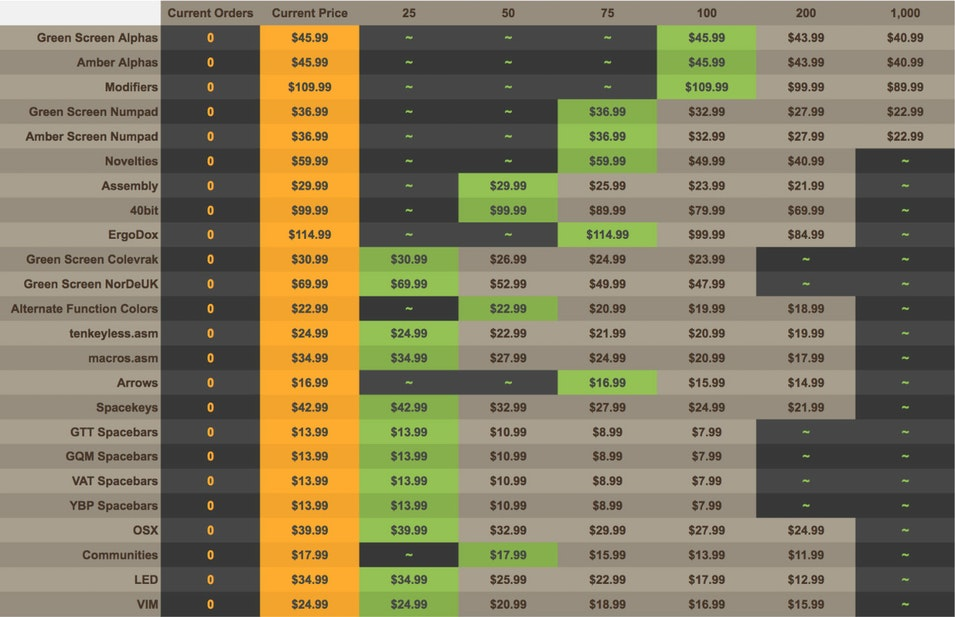
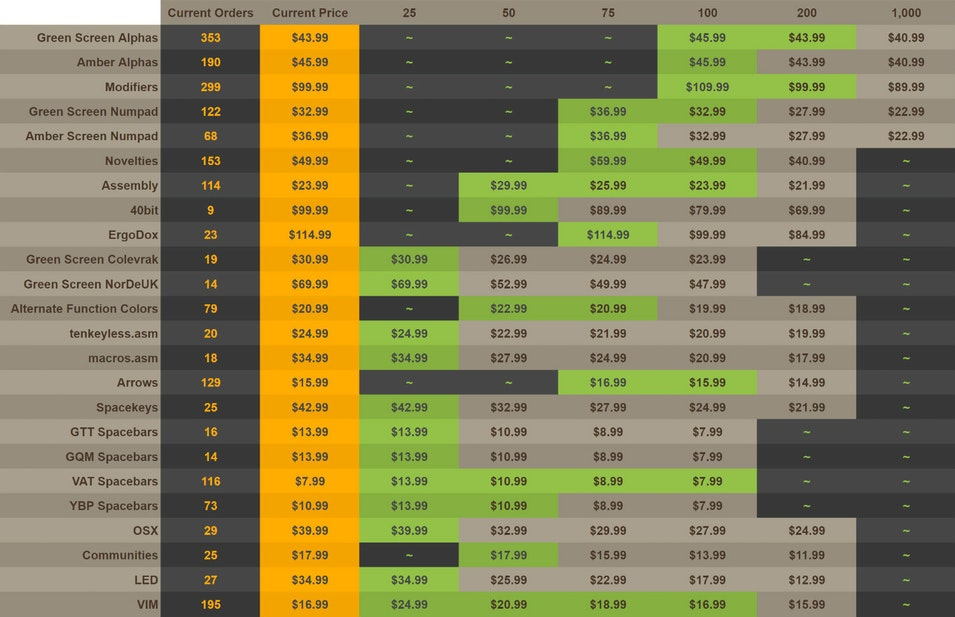
There are 3 files have been modified at 2018-08-01 16:17:48 . 	-rw-rw-r-- 1 juzou juzou 8583 Aug  1 16:17 2018-07-05-sa-greenscreen.md 	-rw-r--r-- 1 juzou juzou 118913 Aug  1 15:50 ../assets/images/greenscreen/price.jpg 	-rwxr-xr-x 1 juzou juzou 3651 Aug  1 16:11 ../generate_md.py There are 2 files 

diff --git a/generate_md.py b/generate_md.py
@@ -6,11 +6,11 @@ from os.path import isfile, join
 
 script, filepath = argv
 
-name = 'Pulse R1'
-rate = 6.16
-designer = 'Mito'
+name = 'Green Screen'
+rate = 6.77
+designer = 'Oblotzk/admgc/Harlw'
 profile = '1-1-2-3-4-3'
-colorcodes = 'OAS/NN/RA/VAT/BBQ'
+colorcodes = 'GTT/GQM/TBN/VAT/YBP'
 
 print """---
 title: SA 
@@ -33,8 +33,8 @@ print 'NOTE: USD to RMB exchange rate is %.2f' % (float(rate))
 
 # generate price table
 print """
-| Name          | Price(USD)    | Price(RMB)  | Price(KP)  | Quantity |
-| ------------- | ------------- | ----------- | ---------- | -------- |"""
+| Name          | Price(USD)    |  Price(KP)  | Quantity |
+| ------------- | ------------- |  ---------- | -------- |"""
 with open(filepath) as fp:  
    line = fp.readline()
    cnt = 1
@@ -42,18 +42,18 @@ with open(filepath) as fp:
        kitname = line.split('|')[0]
        usdprice = line.split('|')[1]
        rmbprice = line.split('|')[2]
-       kpprice = line.split('|')[3]
+#       kpprice = line.split('|')[3]
        quantity = line.split('|')[-1]
 
        if len(rmbprice) < 2:
           rmbprice = float(usdprice) * float(rate)
        result = '|[%s](#%s)|%.2f|%.2f|' % (kitname, kitname.lower().replace(" ",""), float(usdprice), float(rmbprice))
 
-       if len(kpprice) > 1:
-          result_kpprice = '%.2f|' % (float(kpprice))
-       else: 
-          result_kpprice = 'unknown|'
-       result = result + result_kpprice
+#       if len(kpprice) > 1:
+#          result_kpprice = '%.2f|' % (float(kpprice))
+#       else: 
+#          result_kpprice = 'unknown|'
+#       result = result + result_kpprice
 
        if len(quantity) > 1:
           result_quantity = '%d|' % (int(quantity))
@@ -79,17 +79,18 @@ with open(filepath) as fp:
        kitname = line.split('|')[0]
        usdprice = line.split('|')[1]
        rmbprice = line.split('|')[2]
-       kpprice = line.split('|')[3]
+#       kpprice = line.split('|')[3]
+       quantity = line.split('|')[-1]
 
        if len(rmbprice) < 2:
           rmbprice = float(usdprice) * float(rate)
        result = '**Price(USD):** %.2f\t**Price(RMB):** %.2f' % (float(usdprice), float(rmbprice))
        
-       if len(kpprice) > 1:
-          result_kpprice = '\t**Price(KP):** %.2f' % (float(kpprice))
-       else: 
-          result_kpprice = '\t**Price(KP):** unkown'
-       result = result + result_kpprice
+#       if len(kpprice) > 1:
+#          result_kpprice = '\t**Price(KP):** %.2f' % (float(kpprice))
+#       else: 
+#          result_kpprice = '\t**Price(KP):** unkown'
+#       result = result + result_kpprice
 
        if len(quantity) > 1:
           result_quantity = '\t**Quantity:** %d' % (int(quantity))
@@ -99,7 +100,7 @@ with open(filepath) as fp:
 
        print "#### %s" % kitname
        print result
-       print '<img src="{{ \'assets/images/%s/kits_pics/r2%s.png\' | relative_url }}" alt="%s" class="image featured">' % ( name.lower().replace(" ",""), kitname.lower().replace(" ",""), kitname.replace(" ","") )
+       print '<img src="{{ \'assets/images/%s/kits_pics/%s.png\' | relative_url }}" alt="%s" class="image featured">' % ( name.lower().replace(" ",""), kitname.lower().replace(" ",""), kitname.replace(" ","") )
        print ''
        line = fp.readline()
        cnt += 1

diff --git a/_posts/2018-07-05-sa-greenscreen.md b/_posts/2018-07-05-sa-greenscreen.md
@@ -18,130 +18,130 @@ Group Buy is not ended yet, Let's buy it !
 
 NOTE: USD to RMB exchange rate is 6.67
 
-| Name          | Price(USD)    | Price(RMB)  | Price(KP)  | Quantity |
-| ------------- | ------------- | ----------- | ---------- | -------- |
-|[GreenScreenAlphas](#greenscreenalphas)|45.99|306.75|unknown|unknown|
-|[AmberScreenAlphas](#amberscreenalphas)|45.99|306.75|unknown|unknown|
-|[Modifiers](#modifiers)|109.99|733.63|unknown|unknown|
-|[GreenScreenNumpad](#greenscreennumpad)|36.99|246.72|unknown|unknown|
-|[AmberScreenNumpad](#amberscreennumpad)|36.99|246.72|unknown|unknown|
-|[Novelties](#novelties)|59.99|400.13|unknown|unknown|
-|[Assembly](#assembly)|29.99|200.03|unknown|unknown|
-|[40bit](#40bit)|99.99|666.93|unknown|unknown|
-|[Ergodox](#ergodox)|114.99|766.98|unknown|unknown|
-|[GreenScreenColevrak](#greenscreencolevrak)|30.99|206.70|unknown|unknown|
-|[GreenScreenNorDeUK](#greenscreennordeuk)|69.99|466.83|unknown|unknown|
-|[AlternateF](#alternatef)|22.99|153.34|unknown|unknown|
-|[TenkeylessASM](#tenkeylessasm)|24.99|166.68|unknown|unknown|
-|[MacrosASM](#macrosasm)|34.99|233.38|unknown|unknown|
-|[Arrows](#arrows)|16.99|113.32|unknown|unknown|
-|[Spacekeys](#spacekeys)|42.99|286.74|unknown|unknown|
-|[GTTSpacebars](#gttspacebars)|13.99|93.31|unknown|unknown|
-|[GQMSpacebars](#gqmspacebars)|13.99|93.31|unknown|unknown|
-|[VATSpacebars](#vatspacebars)|13.99|93.31|unknown|unknown|
-|[YBPSpacebars](#ybpspacebars)|13.99|93.31|unknown|unknown|
-|[OSX](#osx)|39.99|266.73|unknown|unknown|
-|[Communities](#communities)|17.99|119.99|unknown|unknown|
-|[LED](#led)|34.99|233.38|unknown|unknown|
-|[VIM](#vim)|24.99|166.68|unknown|unknown|
+| Name          | Price(USD)    |  Price(KP)  | Quantity |
+| ------------- | ------------- |  ---------- | -------- |
+|[GreenScreenAlphas](#greenscreenalphas)|43.99|297.81|353|
+|[AmberScreenAlphas](#amberscreenalphas)|45.99|311.35|190|
+|[Modifiers](#modifiers)|99.99|676.93|299|
+|[GreenScreenNumpad](#greenscreennumpad)|32.99|223.34|122|
+|-[AmberScreenNumpad](#amberscreennumpad)-|36.99|250.42|68|
+|[Novelties](#novelties)|49.99|338.43|153|
+|[Assembly](#assembly)|23.99|162.41|114|
+|[40bit](#40bit)|99.99|676.93|9|
+|[Ergodox](#ergodox)|114.99|778.48|23|
+|[GreenScreenColevrak](#greenscreencolevrak)|30.99|209.80|19|
+|[GreenScreenNorDeUK](#greenscreennordeuk)|69.99|473.83|14|
+|[AlternateF](#alternatef)|20.99|142.10|79|
+|[TenkeylessASM](#tenkeylessasm)|24.99|169.18|20|
+|[MacrosASM](#macrosasm)|34.99|236.88|18|
+|[Arrows](#arrows)|15.99|108.25|129|
+|[Spacekeys](#spacekeys)|42.99|291.04|25|
+|[GTTSpacebars](#gttspacebars)|13.99|94.71|16|
+|[GQMSpacebars](#gqmspacebars)|13.99|94.71|14|
+|[VATSpacebars](#vatspacebars)|7.99|54.09|116|
+|[YBPSpacebars](#ybpspacebars)|10.99|74.40|74|
+|[OSX](#osx)|39.99|270.73|29|
+|[Communities](#communities)|17.99|121.79|25|
+|[LED](#led)|34.99|236.88|27|
+|[VIM](#vim)|16.99|115.02|195|
 
-<img src="{{ 'assets/images/greenscreen/price.jpg' | relative_url }}" alt="price" class="image featured">
+<img src="{{ 'assets/images/greenscreen/Price.jpg' | relative_url }}" alt="price" class="image featured">
 
 ## Kits
 #### GreenScreenAlphas
-**Price(USD):** 45.99	**Price(RMB):** 306.75	**Price(KP):** unkown	**Quantity:** unknown
+**Price(USD):** 43.99   **Price(RMB):** 297.81  **Quantity:** 353
 <img src="{{ 'assets/images/greenscreen/kits_pics/greenscreenalphas.png' | relative_url }}" alt="GreenScreenAlphas" class="image featured">
 
 #### AmberScreenAlphas
-**Price(USD):** 45.99	**Price(RMB):** 306.75	**Price(KP):** unkown	**Quantity:** unknown
+**Price(USD):** 45.99   **Price(RMB):** 311.35  **Quantity:** 190
 <img src="{{ 'assets/images/greenscreen/kits_pics/amberscreenalphas.png' | relative_url }}" alt="AmberScreenAlphas" class="image featured">
 
 #### Modifiers
-**Price(USD):** 109.99	**Price(RMB):** 733.63	**Price(KP):** unkown	**Quantity:** unknown
+**Price(USD):** 99.99   **Price(RMB):** 676.93  **Quantity:** 299
 <img src="{{ 'assets/images/greenscreen/kits_pics/modifiers.png' | relative_url }}" alt="Modifiers" class="image featured">
 
 #### GreenScreenNumpad
-**Price(USD):** 36.99	**Price(RMB):** 246.72	**Price(KP):** unkown	**Quantity:** unknown
+**Price(USD):** 32.99   **Price(RMB):** 223.34  **Quantity:** 122
 <img src="{{ 'assets/images/greenscreen/kits_pics/greenscreennumpad.png' | relative_url }}" alt="GreenScreenNumpad" class="image featured">
 
 #### AmberScreenNumpad
-**Price(USD):** 36.99	**Price(RMB):** 246.72	**Price(KP):** unkown	**Quantity:** unknown
+**Price(USD):** 36.99   **Price(RMB):** 250.42  **Quantity:** 68
 <img src="{{ 'assets/images/greenscreen/kits_pics/amberscreennumpad.png' | relative_url }}" alt="AmberScreenNumpad" class="image featured">
 
 #### Novelties
-**Price(USD):** 59.99	**Price(RMB):** 400.13	**Price(KP):** unkown	**Quantity:** unknown
+**Price(USD):** 49.99   **Price(RMB):** 338.43  **Quantity:** 153
 <img src="{{ 'assets/images/greenscreen/kits_pics/novelties.png' | relative_url }}" alt="Novelties" class="image featured">
 
 #### Assembly
-**Price(USD):** 29.99	**Price(RMB):** 200.03	**Price(KP):** unkown	**Quantity:** unknown
+**Price(USD):** 23.99   **Price(RMB):** 162.41  **Quantity:** 114
 <img src="{{ 'assets/images/greenscreen/kits_pics/assembly.png' | relative_url }}" alt="Assembly" class="image featured">
 
 #### 40bit
-**Price(USD):** 99.99	**Price(RMB):** 666.93	**Price(KP):** unkown	**Quantity:** unknown
+**Price(USD):** 99.99   **Price(RMB):** 676.93  **Quantity:** 9
 <img src="{{ 'assets/images/greenscreen/kits_pics/40bit.png' | relative_url }}" alt="40bit" class="image featured">
 
 #### Ergodox
-**Price(USD):** 114.99	**Price(RMB):** 766.98	**Price(KP):** unkown	**Quantity:** unknown
+**Price(USD):** 114.99  **Price(RMB):** 778.48  **Quantity:** 23
 <img src="{{ 'assets/images/greenscreen/kits_pics/ergodox.png' | relative_url }}" alt="Ergodox" class="image featured">
 
 #### GreenScreenColevrak
-**Price(USD):** 30.99	**Price(RMB):** 206.70	**Price(KP):** unkown	**Quantity:** unknown
+**Price(USD):** 30.99   **Price(RMB):** 209.80  **Quantity:** 19
 <img src="{{ 'assets/images/greenscreen/kits_pics/greenscreencolevrak.png' | relative_url }}" alt="GreenScreenColevrak" class="image featured">
 
 #### GreenScreenNorDeUK
-**Price(USD):** 69.99	**Price(RMB):** 466.83	**Price(KP):** unkown	**Quantity:** unknown
+**Price(USD):** 69.99   **Price(RMB):** 473.83  **Quantity:** 14
 <img src="{{ 'assets/images/greenscreen/kits_pics/greenscreennordeuk.png' | relative_url }}" alt="GreenScreenNorDeUK" class="image featured">
 
 #### AlternateF
-**Price(USD):** 22.99	**Price(RMB):** 153.34	**Price(KP):** unkown	**Quantity:** unknown
+**Price(USD):** 20.99   **Price(RMB):** 142.10  **Quantity:** 79
 <img src="{{ 'assets/images/greenscreen/kits_pics/alternatef.png' | relative_url }}" alt="AlternateF" class="image featured">
 
 #### TenkeylessASM
-**Price(USD):** 24.99	**Price(RMB):** 166.68	**Price(KP):** unkown	**Quantity:** unknown
+**Price(USD):** 24.99   **Price(RMB):** 169.18  **Quantity:** 20
 <img src="{{ 'assets/images/greenscreen/kits_pics/tenkeylessasm.png' | relative_url }}" alt="TenkeylessASM" class="image featured">
 
 #### MacrosASM
-**Price(USD):** 34.99	**Price(RMB):** 233.38	**Price(KP):** unkown	**Quantity:** unknown
+**Price(USD):** 34.99   **Price(RMB):** 236.88  **Quantity:** 18
 <img src="{{ 'assets/images/greenscreen/kits_pics/macrosasm.png' | relative_url }}" alt="MacrosASM" class="image featured">
 
 #### Arrows
-**Price(USD):** 16.99	**Price(RMB):** 113.32	**Price(KP):** unkown	**Quantity:** unknown
+**Price(USD):** 15.99   **Price(RMB):** 108.25  **Quantity:** 129
 <img src="{{ 'assets/images/greenscreen/kits_pics/arrows.png' | relative_url }}" alt="Arrows" class="image featured">
 
 #### Spacekeys
-**Price(USD):** 42.99	**Price(RMB):** 286.74	**Price(KP):** unkown	**Quantity:** unknown
+**Price(USD):** 42.99   **Price(RMB):** 291.04  **Quantity:** 25
 <img src="{{ 'assets/images/greenscreen/kits_pics/spacekeys.png' | relative_url }}" alt="Spacekeys" class="image featured">
 
 #### GTTSpacebars
-**Price(USD):** 13.99	**Price(RMB):** 93.31	**Price(KP):** unkown	**Quantity:** unknown
+**Price(USD):** 13.99   **Price(RMB):** 94.71   **Quantity:** 16
 <img src="{{ 'assets/images/greenscreen/kits_pics/gttspacebars.png' | relative_url }}" alt="GTTSpacebars" class="image featured">
 
 #### GQMSpacebars
-**Price(USD):** 13.99	**Price(RMB):** 93.31	**Price(KP):** unkown	**Quantity:** unknown
+**Price(USD):** 13.99   **Price(RMB):** 94.71   **Quantity:** 14
 <img src="{{ 'assets/images/greenscreen/kits_pics/gqmspacebars.png' | relative_url }}" alt="GQMSpacebars" class="image featured">
 
 #### VATSpacebars
-**Price(USD):** 13.99	**Price(RMB):** 93.31	**Price(KP):** unkown	**Quantity:** unknown
+**Price(USD):** 7.99    **Price(RMB):** 54.09   **Quantity:** 116
 <img src="{{ 'assets/images/greenscreen/kits_pics/vatspacebars.png' | relative_url }}" alt="VATSpacebars" class="image featured">
 
 #### YBPSpacebars
-**Price(USD):** 13.99	**Price(RMB):** 93.31	**Price(KP):** unkown	**Quantity:** unknown
+**Price(USD):** 10.99   **Price(RMB):** 74.40   **Quantity:** 74
 <img src="{{ 'assets/images/greenscreen/kits_pics/ybpspacebars.png' | relative_url }}" alt="YBPSpacebars" class="image featured">
 
 #### OSX
-**Price(USD):** 39.99	**Price(RMB):** 266.73	**Price(KP):** unkown	**Quantity:** unknown
+**Price(USD):** 39.99   **Price(RMB):** 270.73  **Quantity:** 29
 <img src="{{ 'assets/images/greenscreen/kits_pics/osx.png' | relative_url }}" alt="OSX" class="image featured">
 
 #### Communities
-**Price(USD):** 17.99	**Price(RMB):** 119.99	**Price(KP):** unkown	**Quantity:** unknown
+**Price(USD):** 17.99   **Price(RMB):** 121.79  **Quantity:** 25
 <img src="{{ 'assets/images/greenscreen/kits_pics/communities.png' | relative_url }}" alt="Communities" class="image featured">
 
 #### LED
-**Price(USD):** 34.99	**Price(RMB):** 233.38	**Price(KP):** unkown	**Quantity:** unknown
+**Price(USD):** 34.99   **Price(RMB):** 236.88  **Quantity:** 27
 <img src="{{ 'assets/images/greenscreen/kits_pics/led.png' | relative_url }}" alt="LED" class="image featured">
 
 #### VIM
-**Price(USD):** 24.99	**Price(RMB):** 166.68	**Price(KP):** unkown	**Quantity:** unknown
+**Price(USD):** 16.99   **Price(RMB):** 115.02  **Quantity:** 195
 <img src="{{ 'assets/images/greenscreen/kits_pics/vim.png' | relative_url }}" alt="VIM" class="image featured">
 
 ## Info
@@ -152,7 +152,8 @@ NOTE: USD to RMB exchange rate is 6.67
 <img src="{{ 'assets/images/SP_ColorCodes/abs/SP_Abs_ColorCodes_GQM.png' | relative_url }}" alt="colorGQM" height="150" width="340">
 <img src="{{ 'assets/images/SP_ColorCodes/abs/SP_Abs_ColorCodes_TBN.png' | relative_url }}" alt="colorTBN" height="150" width="340">
 <img src="{{ 'assets/images/SP_ColorCodes/abs/SP_Abs_ColorCodes_VAT.png' | relative_url }}" alt="colorVAT" height="150" width="340">
-<img src="{{ 'assets/images/SP_ColorCodes/abs/SP_Abs_ColorCodes_YBP.png' | relative_url }}" alt="colorYBP" height="150" width="340">
+<img src="{{ 'assets/images/SP_ColorCodes/abs/SP_Abs_ColorCodes_YBP.png' | relative_url }}" alt="colorYBP" height="150" width="340">  
+<img src="{{ 'assets/images/greenscreen/greenscreencolor.png | relative_url }}" alt="green screen design color" class="image featured">
 
 ## Pictures
 <img src="{{ 'assets/images/greenscreen/rendering_pics/EhD7OYZETE6oFXIzji6A_sa_green_screen_m65_green_accents_novelties_3k.jpg' | relative_url }}" alt="EhD7OYZETE6oFXIzji6A_sa_green_screen_m65_green_accents_novelties_3k" class="image featured">
